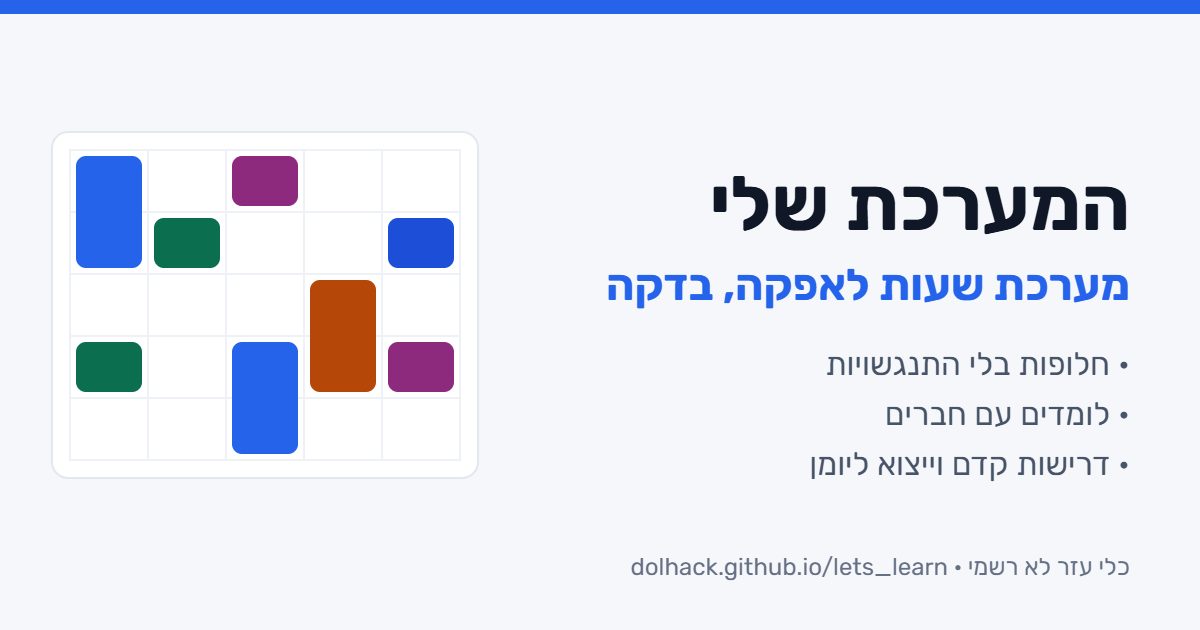
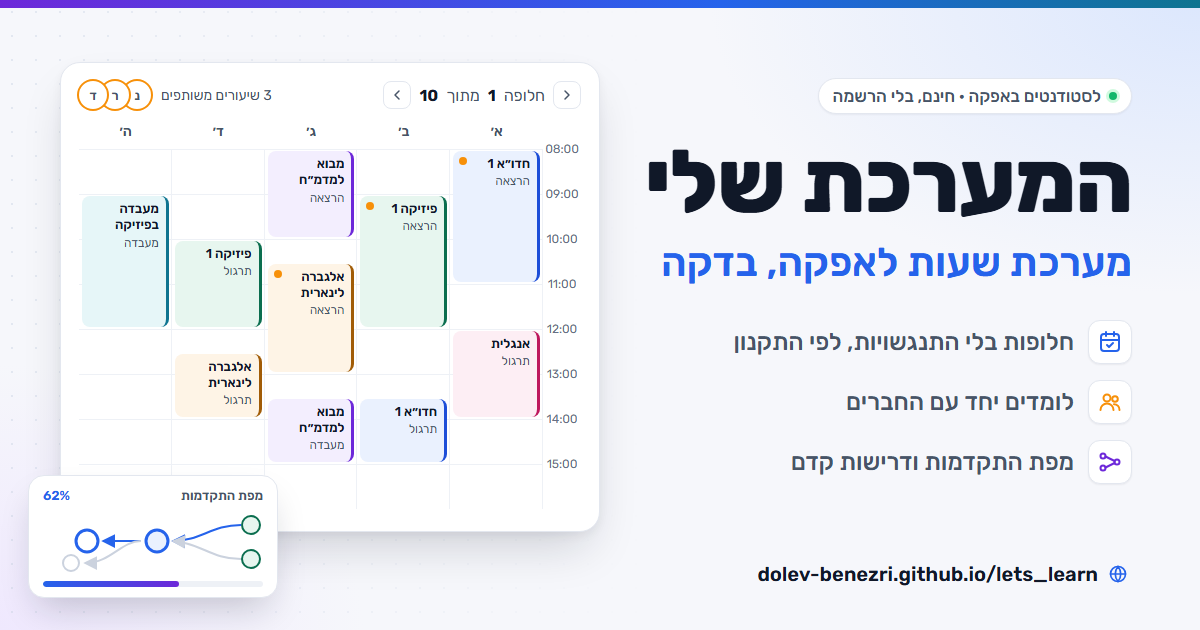
feat(og): redesigned link preview image with a week card, friends and a progress-map chip; current URL; shown in the README
The image is rendered from design-system/og.html with headless Chrome.

diff --git a/design-system/og.html b/design-system/og.html
@@ -1,0 +1,144 @@
+<!doctype html>
+<html lang="he" dir="rtl">
+<head>
+<meta charset="utf-8">
+<!-- Source of web/og.png (1200x630). Render: chrome --headless=new --hide-scrollbars --allow-file-access-from-files --window-size=1200,630 --screenshot=og.png design-system/og.html -->
+<style>
+@font-face { font-family:"Rubik"; font-weight:300 900; src:url(../web/fonts/rubik-hebrew-wght-normal.woff2) format("woff2"); unicode-range:U+0590-05FF, U+200C-2010, U+20AA, U+25CC, U+FB1D-FB4F; }
+@font-face { font-family:"Rubik"; font-weight:300 900; src:url(../web/fonts/rubik-latin-wght-normal.woff2) format("woff2"); }
+:root {
+  --bg:#F6F7FB; --surface:#fff; --border:#E3E7EF; --text:#101828; --text-2:#475467; --text-3:#667085;
+  --primary:#2563EB; --primary-hover:#1D4ED8; --primary-soft:#EAF1FE; --friend:#F79009;
+  --c0-bg:#EAF1FE; --c0-fg:#1D4ED8; --c1-bg:#E7F6EF; --c1-fg:#0B6E4F; --c2-bg:#F3EEFE; --c2-fg:#6D28D9;
+  --c3-bg:#FDEEF4; --c3-fg:#BE185D; --c4-bg:#FEF4E6; --c4-fg:#A15C07; --c5-bg:#E6F6F8; --c5-fg:#0E7490;
+}
+* { box-sizing:border-box; margin:0; }
+html, body { width:1200px; height:630px; overflow:hidden; }
+body { font-family:"Rubik", system-ui, sans-serif; color:var(--text); position:relative;
+  background:
+    radial-gradient(700px 420px at 100% 0%, #DCE7FD 0%, transparent 70%),
+    radial-gradient(520px 380px at 0% 100%, #EFE8FE 0%, transparent 70%),
+    var(--bg); }
+body::before { content:""; position:absolute; inset:0;
+  background-image:radial-gradient(#C9D3E3 1.2px, transparent 1.2px); background-size:24px 24px; opacity:.45;
+  -webkit-mask-image:linear-gradient(90deg, #000 0%, transparent 55%); mask-image:linear-gradient(90deg, #000 0%, transparent 55%); }
+.top { position:absolute; inset:0 0 auto; height:8px; background:linear-gradient(90deg, #6D28D9, var(--primary) 60%, #0E7490); }
+
+/* text column (right side in RTL) */
+.copy { position:absolute; top:78px; right:68px; width:520px; }
+.tag { display:inline-flex; align-items:center; gap:8px; padding:7px 14px; border-radius:999px; background:var(--surface);
+  border:1px solid var(--border); font-size:17px; font-weight:500; color:var(--text-2); box-shadow:0 1px 2px rgba(16,24,40,.05); }
+.tag i { width:8px; height:8px; border-radius:50%; background:#12B76A; box-shadow:0 0 0 3px #D1FADF; }
+h1 { margin-top:24px; white-space:nowrap; font-size:88px; line-height:1; font-weight:800; letter-spacing:-1px; }
+h2 { margin-top:14px; font-size:40px; line-height:1.15; font-weight:600; color:var(--primary); }
+ul { list-style:none; padding:0; margin-top:34px; display:grid; gap:16px; }
+li { display:flex; align-items:center; gap:14px; font-size:24px; font-weight:500; color:var(--text-2); }
+li .ic { width:44px; height:44px; flex:none; display:grid; place-items:center; border-radius:12px; background:var(--surface);
+  border:1px solid var(--border); box-shadow:0 1px 2px rgba(16,24,40,.06); }
+li svg { width:24px; height:24px; fill:none; stroke-width:2; stroke-linecap:round; stroke-linejoin:round; }
+.url { position:absolute; bottom:44px; right:72px; display:flex; align-items:center; gap:10px; font-size:20px; color:var(--text-3); }
+.url b { font-weight:600; color:var(--text); direction:ltr; }
+.url svg { width:20px; height:20px; stroke:var(--primary); fill:none; stroke-width:2; stroke-linecap:round; stroke-linejoin:round; }
+
+/* week card (left side) */
+.card { position:absolute; top:62px; left:60px; width:540px; height:470px; background:var(--surface); border:1px solid var(--border);
+  border-radius:20px; box-shadow:0 24px 48px -12px rgba(16,24,40,.18), 0 4px 10px rgba(16,24,40,.05); padding:18px 18px 16px; }
+.bar { display:flex; align-items:center; justify-content:space-between; }
+.alt { display:flex; align-items:center; gap:8px; font-size:16px; color:var(--text-2); }
+.alt b { color:var(--text); font-weight:700; }
+.chev { width:28px; height:28px; display:grid; place-items:center; border:1px solid var(--border); border-radius:8px; }
+.chev svg { width:16px; height:16px; stroke:var(--text-2); fill:none; stroke-width:2.2; stroke-linecap:round; stroke-linejoin:round; }
+.stack { display:flex; align-items:center; gap:10px; font-size:14px; color:var(--text-2); }
+.avs { display:flex; }
+.av { width:28px; height:28px; display:grid; place-items:center; border-radius:50%; background:var(--surface); border:2px solid var(--surface);
+  box-shadow:0 0 0 2px var(--friend); font-size:13px; font-weight:600; }
+.av + .av { margin-inline-start:-6px; }
+.grid { position:relative; margin-top:14px; display:grid; grid-template-columns:38px repeat(5, 1fr); grid-template-rows:26px repeat(8, 45px); }
+.d { font-size:14px; font-weight:600; color:var(--text-2); text-align:center; }
+.h { font-size:12px; color:var(--text-3); text-align:center; transform:translateY(-7px); }
+.cell { border-top:1px solid #EEF1F6; border-inline-start:1px solid #EEF1F6; }
+.blk { position:absolute; display:flex; flex-direction:column; gap:2px; padding:5px 7px; border-radius:8px; border-inline-start:3px solid var(--cfg);
+  background:var(--cbg); font-size:13px; line-height:1.25; overflow:hidden; }
+.blk b { font-weight:600; }
+.blk span { color:var(--text-2); font-size:12px; }
+.blk.fr::after { content:""; position:absolute; top:6px; left:6px; width:8px; height:8px; border-radius:50%; background:var(--friend); }
+.c0{--cbg:var(--c0-bg);--cfg:var(--c0-fg)} .c1{--cbg:var(--c1-bg);--cfg:var(--c1-fg)} .c2{--cbg:var(--c2-bg);--cfg:var(--c2-fg)}
+.c3{--cbg:var(--c3-bg);--cfg:var(--c3-fg)} .c4{--cbg:var(--c4-bg);--cfg:var(--c4-fg)} .c5{--cbg:var(--c5-bg);--cfg:var(--c5-fg)}
+
+/* floating progress-map chip */
+.map { position:absolute; left:28px; bottom:32px; width:250px; padding:12px 14px 10px; background:var(--surface); border:1px solid var(--border);
+  border-radius:16px; box-shadow:0 18px 36px -10px rgba(16,24,40,.22); }
+.map p { font-size:13px; font-weight:600; color:var(--text-2); display:flex; justify-content:space-between; }
+.map p em { font-style:normal; color:var(--primary); }
+.map svg { display:block; margin-top:6px; }
+.meter { margin-top:8px; height:6px; border-radius:999px; background:#EEF1F6; overflow:hidden; }
+.meter i { display:block; width:62%; height:100%; border-radius:999px; background:linear-gradient(90deg, var(--primary), #6D28D9); margin-inline-start:auto; }
+</style>
+</head>
+<body>
+<div class="top"></div>
+
+<div class="copy">
+  <span class="tag"><i></i>לסטודנטים באפקה · חינם, בלי הרשמה</span>
+  <h1>המערכת שלי</h1>
+  <h2>מערכת שעות לאפקה, בדקה</h2>
+  <ul>
+    <li><span class="ic"><svg viewBox="0 0 24 24" stroke="#2563EB"><rect x="3" y="4" width="18" height="17" rx="3"/><path d="M8 2v4M16 2v4M3 10h18M9 15l2 2 4-4"/></svg></span>חלופות בלי התנגשויות, לפי התקנון</li>
+    <li><span class="ic"><svg viewBox="0 0 24 24" stroke="#F79009"><circle cx="9" cy="8" r="3.5"/><path d="M2.5 20a6.5 6.5 0 0 1 13 0"/><circle cx="17" cy="9" r="2.8"/><path d="M16 14.2A5.5 5.5 0 0 1 21.5 20"/></svg></span>לומדים יחד עם החברים</li>
+    <li><span class="ic"><svg viewBox="0 0 24 24" stroke="#6D28D9"><circle cx="5" cy="6" r="2.5"/><circle cx="5" cy="18" r="2.5"/><circle cx="19" cy="12" r="2.5"/><path d="M7.5 6.5 16.6 11M7.5 17.5l9.1-4.5"/></svg></span>מפת התקדמות ודרישות קדם</li>
+  </ul>
+</div>
+<div class="url"><svg viewBox="0 0 24 24"><circle cx="12" cy="12" r="9"/><path d="M3 12h18M12 3a14 14 0 0 1 0 18M12 3a14 14 0 0 0 0 18"/></svg><b>dolev-benezri.github.io/lets_learn</b></div>
+
+<div class="card">
+  <div class="bar">
+    <div class="alt">
+      <span class="chev"><svg viewBox="0 0 24 24"><path d="m9 6 6 6-6 6"/></svg></span>
+      חלופה <b>1</b> מתוך <b>10</b>
+      <span class="chev"><svg viewBox="0 0 24 24"><path d="m15 6-6 6 6 6"/></svg></span>
+    </div>
+    <div class="stack"><span>3 שיעורים משותפים</span><span class="avs"><span class="av">נ</span><span class="av">ר</span><span class="av">ד</span></span></div>
+  </div>
+  <div class="grid" id="g"></div>
+</div>
+
+<div class="map">
+  <p>מפת התקדמות <em>62%</em></p>
+  <svg width="222" height="64" viewBox="0 0 222 64">
+    <defs><marker id="a" viewBox="0 0 8 8" refX="7" refY="4" markerWidth="7" markerHeight="7" orient="auto"><path d="M0 0 8 4 0 8z" fill="#2563EB"/></marker>
+      <marker id="b" viewBox="0 0 8 8" refX="7" refY="4" markerWidth="7" markerHeight="7" orient="auto"><path d="M0 0 8 4 0 8z" fill="#CBD2DE"/></marker></defs>
+    <g fill="none" stroke-width="2">
+      <path d="M200 16 C170 16 160 32 132 32" stroke="#2563EB" marker-end="url(#a)"/>
+      <path d="M200 50 C170 50 160 34 132 32" stroke="#CBD2DE" marker-end="url(#b)"/>
+      <path d="M100 32 H62" stroke="#2563EB" marker-end="url(#a)"/>
+      <path d="M100 32 C80 32 70 54 44 54" stroke="#CBD2DE" marker-end="url(#b)"/>
+    </g>
+    <circle cx="210" cy="16" r="9" fill="#E7F6EF" stroke="#0B6E4F" stroke-width="2"/>
+    <circle cx="210" cy="50" r="9" fill="#E7F6EF" stroke="#0B6E4F" stroke-width="2"/>
+    <circle cx="116" cy="32" r="11" fill="#EAF1FE" stroke="#2563EB" stroke-width="3"/>
+    <circle cx="46" cy="32" r="11" fill="#fff" stroke="#2563EB" stroke-width="3"/>
+    <circle cx="30" cy="54" r="8" fill="#fff" stroke="#CBD2DE" stroke-width="2"/>
+  </svg>
+  <div class="meter"><i></i></div>
+</div>
+
+<script>
+// Week: days א-ה, hours 08-16, 45px per hour. Blocks: [day 0-4, start hour, length in hours, colour, name, meta, friend]
+const g = document.getElementById('g'), days = ['א׳', 'ב׳', 'ג׳', 'ד׳', 'ה׳'];
+g.insertAdjacentHTML('beforeend', '<div></div>' + days.map((d) => `<div class="d">${d}</div>`).join(''));
+for (let r = 0; r < 8; r++) g.insertAdjacentHTML('beforeend', `<div class="h">${String(8 + r).padStart(2, '0')}:00</div>` + '<div class="cell"></div>'.repeat(5));
+const B = [
+  [0, 8, 3, 'c0', 'חדו״א 1', 'הרצאה', 1], [0, 12, 2, 'c3', 'אנגלית', 'תרגול'],
+  [1, 9, 3, 'c1', 'פיזיקה 1', 'הרצאה', 1], [1, 13.5, 1.5, 'c0', 'חדו״א 1', 'תרגול'],
+  [2, 8, 2, 'c2', 'מבוא למדמ״ח', 'הרצאה'], [2, 10.5, 2.5, 'c4', 'אלגברה לינארית', 'הרצאה', 1], [2, 13.5, 1.5, 'c2', 'מבוא למדמ״ח', 'מעבדה'],
+  [3, 10, 2, 'c1', 'פיזיקה 1', 'תרגול'], [3, 12.5, 1.5, 'c4', 'אלגברה לינארית', 'תרגול'],
+  [4, 9, 3, 'c5', 'מעבדה בפיזיקה', 'מעבדה'],
+];
+const x0 = 38, y0 = 26, hp = 45, col = (g.clientWidth - x0) / 5;
+for (const [d, s, l, c, n, m, f] of B) {
+  const right = x0 + d * col + 3, top = y0 + (s - 8) * hp + 2;
+  g.insertAdjacentHTML('beforeend', `<div class="blk ${c}${f ? ' fr' : ''}" style="right:${right}px;top:${top}px;width:${col - 6}px;height:${l * hp - 4}px"><b>${n}</b><span>${m}</span></div>`);
+}
+</script>
+</body>
+</html>

diff --git a/web/index.html b/web/index.html
@@ -22,7 +22,7 @@
 <meta property="og:image" content="https://dolev-benezri.github.io/lets_learn/og.png">
 <meta property="og:image:width" content="1200">
 <meta property="og:image:height" content="630">
-<meta property="og:image:alt" content="לוח שבועי צבעוני ולידו: המערכת שלי, מערכת שעות לאפקה, בדקה">
+<meta property="og:image:alt" content="לוח שבועי עם חלופה 1 מתוך 10, חברים ומפת התקדמות, ולידו: המערכת שלי, מערכת שעות לאפקה, בדקה">
 <meta name="twitter:card" content="summary_large_image">
 <link rel="preload" href="fonts/rubik-hebrew-wght-normal.woff2" as="font" type="font/woff2" crossorigin>
 <link rel="stylesheet" href="map.css">

diff --git a/README.md b/README.md
@@ -11,6 +11,8 @@
 ![no sign-up](https://img.shields.io/badge/sign--up-not%20needed-success)
 ![data](https://img.shields.io/badge/data-stays%20in%20your%20browser-success)
 
+<img src="web/og.png" alt="המערכת שלי: לוח שבועי עם חלופה 1 מתוך 10, חברים ומפת התקדמות" width="800">
+
 ## [לפתיחת האתר ←](https://dolev-benezri.github.io/lets_learn/)
 
 </div>
